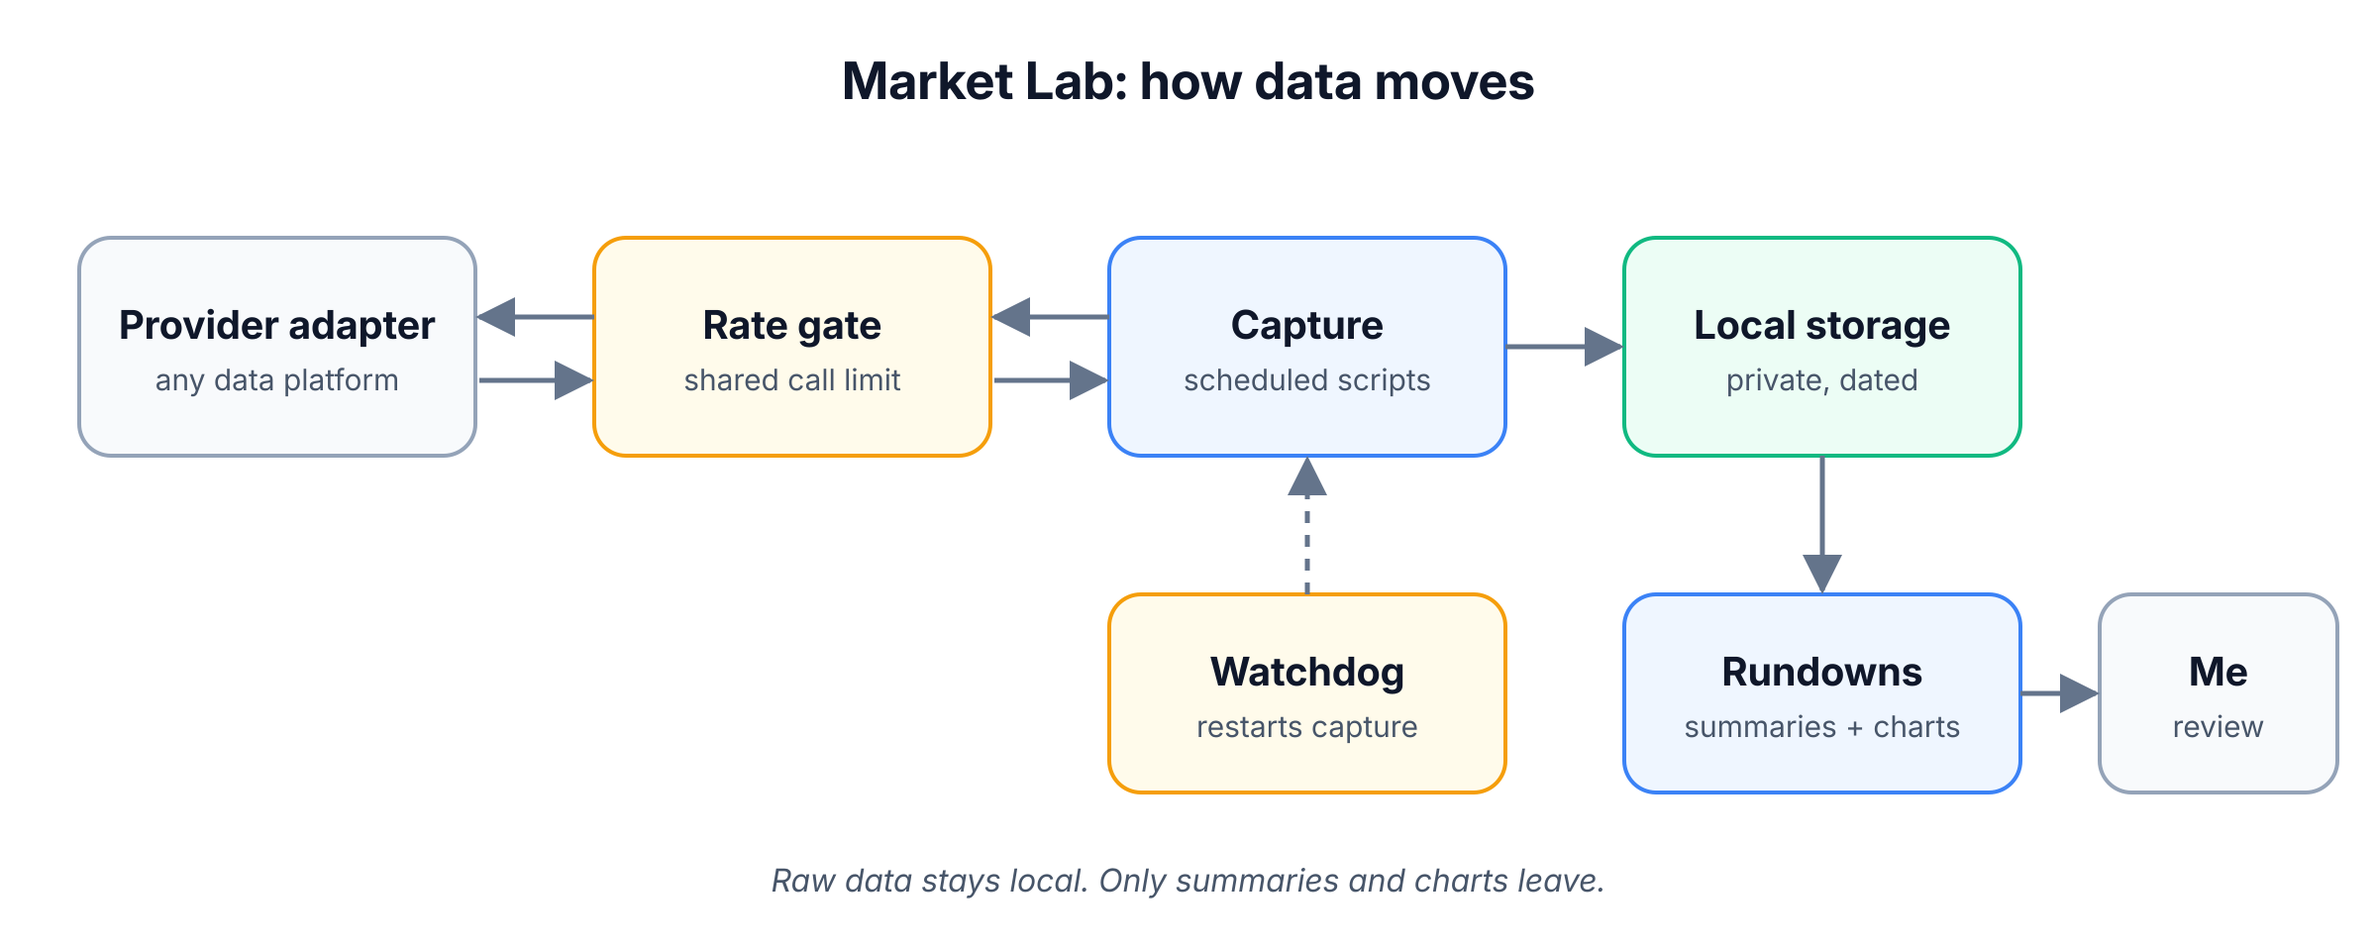
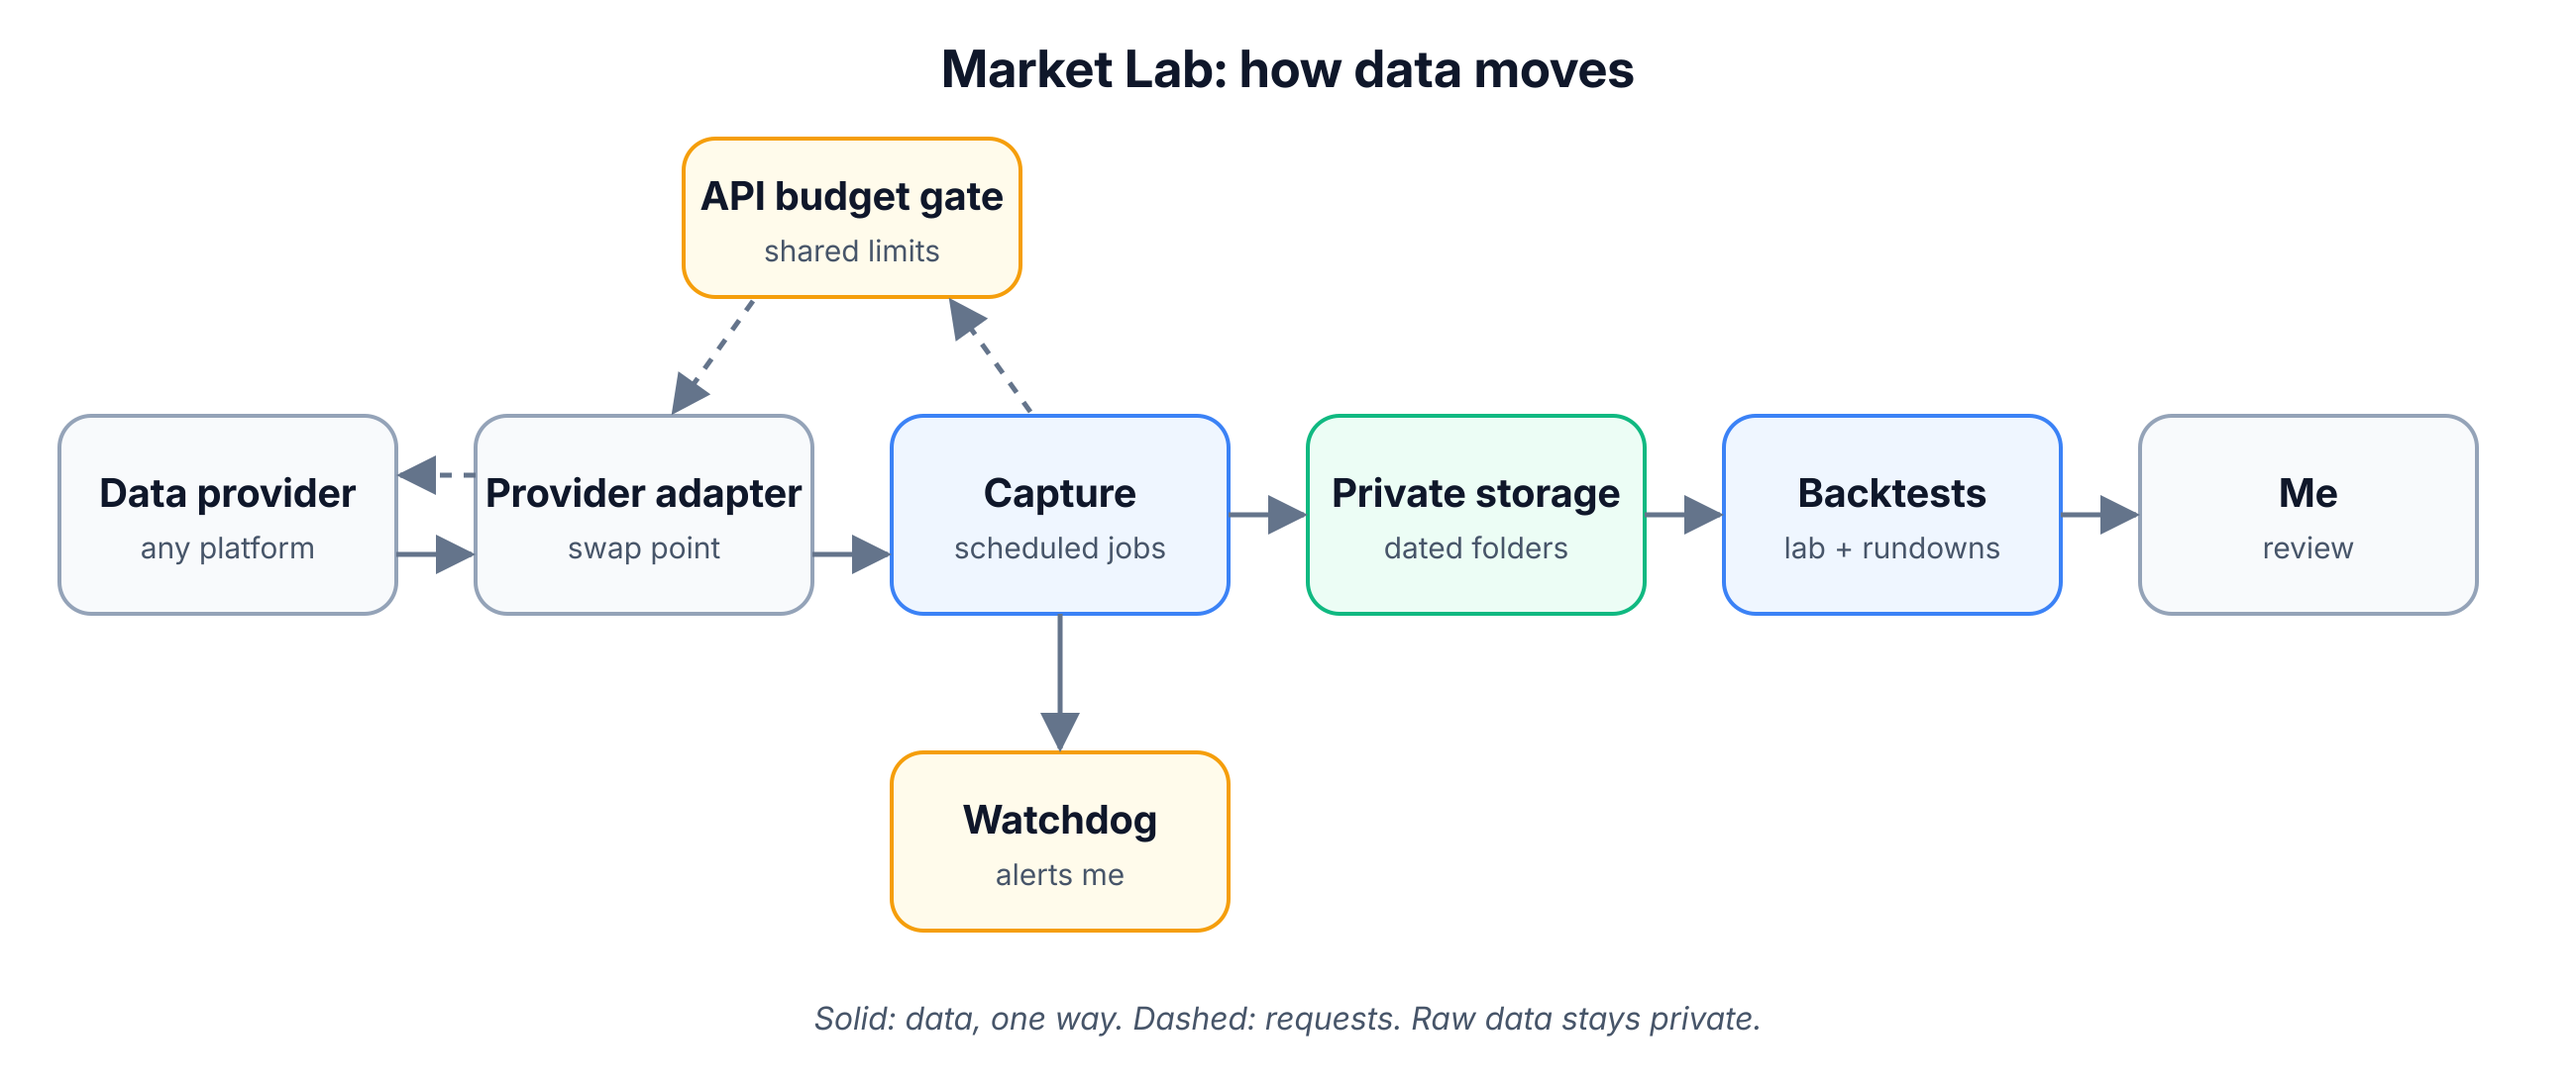
docs: reframe Market Lab around backtesting and apply review fixes

diff --git a/market-lab/assets/gen.py b/market-lab/assets/gen.py
@@ -26,9 +26,9 @@ def box(o, x, y, w, h, title, sub, fill, stroke, dash=False):
     text(o, x + w / 2, y + h / 2 + 22, sub, 15, SUB)
 
 
-def arrow(o, x1, y1, x2, y2, dash=False):
+def arrow(o, x1, y1, x2, y2, dash=False, color="#64748B"):
     d = ' stroke-dasharray="6 6"' if dash else ""
-    o.append(f'<line x1="{x1}" y1="{y1}" x2="{x2}" y2="{y2}" stroke="#64748B" stroke-width="2.5" marker-end="url(#a)"{d}/>')
+    o.append(f'<line x1="{x1}" y1="{y1}" x2="{x2}" y2="{y2}" stroke="{color}" stroke-width="2.5" marker-end="url(#a)"{d}/>')
 
 
 BLUE = ("#EFF6FF", "#3B82F6")
@@ -36,26 +36,30 @@ GREEN = ("#ECFDF5", "#10B981")
 AMBER = ("#FFFBEB", "#F59E0B")
 GRAY = ("#F8FAFC", "#94A3B8")
 
-# 1. Simple architecture: one capture session, left to right.
+# 1. Simple architecture: one capture session.
+# Solid arrows carry data one way, left to right. Dashed arrows are requests.
 o = []
-text(o, 600, 50, "Market Lab: how data moves", 26, bold=True)
-box(o, 40, 120, 200, 110, "Provider adapter", "any data platform", *GRAY)
-box(o, 300, 120, 200, 110, "Rate gate", "shared call limit", *AMBER)
-box(o, 560, 120, 200, 110, "Capture", "scheduled scripts", *BLUE)
-box(o, 820, 120, 200, 110, "Local storage", "private, dated", *GREEN)
-arrow(o, 560, 160, 502, 160)
-arrow(o, 300, 160, 242, 160)
-arrow(o, 242, 192, 298, 192)
-arrow(o, 502, 192, 558, 192)
-arrow(o, 760, 175, 818, 175)
-box(o, 560, 300, 200, 100, "Watchdog", "restarts capture", *AMBER)
-arrow(o, 660, 300, 660, 232, dash=True)
-box(o, 820, 300, 200, 100, "Rundowns", "summaries + charts", *BLUE)
-arrow(o, 920, 230, 920, 298)
-box(o, 1060, 300, 120, 100, "Me", "review", *GRAY)
-arrow(o, 1020, 350, 1058, 350)
-text(o, 600, 450, "Raw data stays local. Only summaries and charts leave.", 16, SUB, ital=True)
-svg("market-lab-architecture-simple.svg", 1200, 480, o)
+text(o, 650, 44, "Market Lab: how data moves", 26, bold=True)
+Y, H, BW = 210, 100, 170
+xs = [30, 240, 450, 660, 870, 1080]
+box(o, xs[0], Y, BW, H, "Data provider", "any platform", *GRAY)
+box(o, xs[1], Y, BW, H, "Provider adapter", "swap point", *GRAY)
+box(o, xs[2], Y, BW, H, "Capture", "scheduled jobs", *BLUE)
+box(o, xs[3], Y, BW, H, "Private storage", "dated folders", *GREEN)
+box(o, xs[4], Y, BW, H, "Backtests", "lab + rundowns", *BLUE)
+box(o, xs[5], Y, BW, H, "Me", "review", *GRAY)
+box(o, 345, 70, 170, 80, "API budget gate", "shared limits", *AMBER)
+arrow(o, 520, Y - 2, 480, 152, dash=True)
+arrow(o, 380, 152, 340, Y - 2, dash=True)
+arrow(o, xs[1], Y + 30, xs[0] + BW + 2, Y + 30, dash=True)
+arrow(o, xs[0] + BW, Y + 70, xs[1] - 2, Y + 70)
+arrow(o, xs[1] + BW, Y + 70, xs[2] - 2, Y + 70)
+for i in (2, 3, 4):
+    arrow(o, xs[i] + BW, Y + 50, xs[i + 1] - 2, Y + 50)
+box(o, 450, 380, 170, 90, "Watchdog", "alerts me", *AMBER)
+arrow(o, 535, Y + H, 535, 378)
+text(o, 650, 520, "Solid: data, one way. Dashed: requests. Raw data stays private.", 16, SUB, ital=True)
+svg("market-lab-architecture-simple.svg", 1300, 550, o)
 
 # 2. Current state vs future state.
 o = []
@@ -63,21 +67,15 @@ text(o, 600, 50, "Market Lab: current vs future state", 26, bold=True)
 text(o, 100, 130, "Today", 20, bold=True)
 text(o, 100, 156, "on hiatus", 15, SUB, ital=True)
 box(o, 180, 90, 240, 100, "Capture", "my computer, stopped", *GRAY)
-box(o, 480, 90, 240, 100, "Local storage", "dated folders", *GREEN)
-box(o, 780, 90, 240, 100, "Rundowns", "summaries + charts", *BLUE)
-arrow(o, 420, 140, 478, 140)
-arrow(o, 720, 140, 778, 140)
+box(o, 480, 90, 240, 100, "Private storage", "my computer", *GREEN)
+box(o, 780, 90, 240, 100, "Backtests", "lab + rundowns", *BLUE)
+arrow(o, 420, 140, 478, 140, color="#CBD5E1")
+arrow(o, 720, 140, 778, 140, color="#CBD5E1")
 text(o, 100, 300, "Planned", 20, bold=True)
 box(o, 180, 250, 240, 100, "Capture", "AWS virtual machine", *BLUE, dash=True)
-box(o, 480, 250, 240, 100, "Cloud storage", "private data lake", *GREEN, dash=True)
-box(o, 780, 250, 240, 100, "Rundowns", "unchanged", *BLUE)
+box(o, 480, 250, 240, 100, "Data lake", "Parquet, private", *GREEN, dash=True)
+box(o, 780, 250, 240, 100, "Backtests", "unchanged", *BLUE)
 arrow(o, 420, 300, 478, 300, dash=True)
 arrow(o, 720, 300, 778, 300, dash=True)
 text(o, 600, 400, "Capture and storage move to AWS. Review stays the same.", 16, SUB, ital=True)
 svg("market-lab-current-vs-future.svg", 1200, 430, o)
-
-# 3. Placeholder photo.
-o = ['<rect x="12" y="12" width="616" height="456" rx="20" fill="#F1F5F9" stroke="#94A3B8" stroke-width="3" stroke-dasharray="14 10"/>',
-     '<polyline points="120,330 220,260 300,290 400,190 520,230" fill="none" stroke="#3B82F6" stroke-width="8" stroke-linecap="round" stroke-linejoin="round"/>']
-text(o, 320, 400, "Placeholder image", 28, SUB, bold=True)
-svg("market-lab-placeholder.svg", 640, 480, o)

diff --git a/market-lab/README.md b/market-lab/README.md
@@ -1,77 +1,79 @@
-# Market Lab: a personal market-data pipeline
+# Market Lab: market data for backtesting
 
 [← Back to the AI Operating Model](../README.md)
 
-Market Lab is my personal market-data pipeline.
-It captures live market data on a schedule, stores it privately, and turns it into summaries and charts I can read.
+Market Lab captures live market data for backtesting.
+The plan is a private data lake that stores the data as Parquet files.
 It's analysis only. It never places anything in the market.
-It's modular. Any market-data platform can plug in behind one adapter.
+
+It's designed so a data platform can be swapped by writing a new adapter.
 The platform I use in development is one implementation, not the product.
+
 It's also where I practice running scheduled jobs, guardrails, and AI agents against real, messy data.
-
-<img src="assets/market-lab-placeholder.png" alt="Placeholder image for Market Lab" width="320">
-
-*Placeholder image. A real one comes later.*
 
 ## How it works
 
 For a step-by-step walkthrough, see [How Market Lab works](how-market-lab-works.md).
 
-![How Market Lab works: capture scripts pull from a licensed market feed through a shared rate gate, save to private local storage, and a watchdog restarts capture if it stops; summaries and charts go to me for review](assets/market-lab-architecture-simple.svg)
+![How Market Lab works: a data provider sends data one way through the provider adapter to capture, then to private storage and backtests that I review; capture requests pass an API budget gate, and a watchdog watches capture and alerts me](assets/market-lab-architecture-simple.svg)
 
-*One capture session, simplified. The provider adapter is the swap point.*
+*One capture session, simplified. Solid arrows carry data. Dashed arrows are requests.*
 
-1. **Scheduled start.** Capture jobs start before the market opens and wait for the session.
-2. **Provider adapter.** Capture talks to one adapter, not to a vendor. Swapping platforms means writing a new adapter.
-3. **Sign-in check.** When the data provider asks, I confirm sign-in on my phone.
-4. **Rate gate.** Every call goes through one shared limit, so jobs can't flood the feed.
-5. **Capture.** Scripts record market depth and quotes during set windows.
-6. **Private storage.** Raw data lands in dated local folders and is never committed or shared.
-7. **Rundowns.** After the close, an agent turns the data into summaries and charts.
-8. **Review.** I read the rundown. Summaries go to my notes through a pull request.
+1. **Jobs wake up.** Before the open, scheduled jobs start and wait for the session.
+2. **Requests go through the adapter.** Capture talks to one provider adapter, not to a platform directly.
+3. **Requests pass the API budget gates.** Every job shares the same limits. See [API budget gates](../docs/overview.md).
+4. **Capture runs.** Jobs record market data during set windows.
+5. **Data lands privately.** Raw data goes to private, dated folders. Today that's my computer. After the move, it's a private cloud data lake.
+6. **The watchdog keeps watch.** It watches capture and alerts me if it stops. Automatic restart is planned.
+7. **Sizes are logged.** After the close, a job records how much data and how many calls the session used.
+8. **Backtests and rundowns run.** The lab engine runs backtests on the stored data. An agent writes a summary with charts.
+9. **I review it.** Results come to me through a pull request.
 
 ## Current state vs future state
 
-![Market Lab current state vs future state: today capture, storage, and rundowns run on my computer; in the plan, only storage moves to the cloud](assets/market-lab-current-vs-future.svg)
+![Market Lab current state vs future state: today capture, storage, and backtests ran on my computer and are paused; in the plan, capture and storage move to AWS](assets/market-lab-current-vs-future.svg)
 
-*Capture and storage move to AWS. The review side stays the same.*
+*Capture and storage move to AWS. Backtests and review stay the same.*
 
-**Current state: on hiatus.** Capture ran on my own computer, with raw data in local, dated folders.
-I stopped local capture after October 21, 2026, on purpose.
-The scheduled capture jobs and the watchdog are paused until the move is done.
+**Current state: on hiatus.** Capture is paused on purpose while it moves to AWS.
+It stopped in late October 2026. Until then it ran on my own computer, with raw data in private, dated folders.
 
 **Future state: migration to AWS (planned).** The code moves to a virtual machine on AWS with more resources.
 The planned pieces are:
 
-- **A private data lake.** Raw files go to cloud storage with public access blocked and encryption on.
+- **A private data lake for backtesting.** Raw data is stored as Parquet, with public access blocked and encryption on.
 - **Infrastructure as code.** The cloud setup is defined in files and reviewed like any other change.
 - **Short-lived cloud credentials.** Pipelines sign in with temporary credentials instead of long-lived ones.
 - **A hosted store for cleaned data.** The choice between options is still open.
 
 **What it unlocks.** Capture no longer runs on my personal computer.
-The bigger machine leaves room for more capture and heavier analysis.
-And the provider adapter makes it simpler to add or swap a data platform later.
+The bigger machine leaves room for more capture and heavier backtests.
+The provider adapter also lets me add or swap a data platform later.
 
-## Guardrails, and where they act
+## Guardrails, as a threat model
 
-- **Around scope:** The project reads market data only. It has no way to act in the market.
-- **Around the feed:** One shared rate gate covers every script, with a limit set below the provider's ceiling.
-- **Around sign-in:** Credentials live in a secrets manager, not in the repo. The provider's sign-in check comes to my phone.
-- **Around the data:** Raw feed data is licensed for private use. It stays local and out of Git. Only summaries and charts leave.
-- **Around uptime:** A watchdog checks capture during the session and restarts it if it stops. It pings me only when it needs me or after a fix.
-- **Around honesty:** Every result is labeled with where its data came from, and known gaps are tracked in a register.
-- **Around changes:** Code changes go through pull requests with security scans, like every repo here.
+Before the hiatus, these controls ran on my computer. They carry over to AWS.
+Each line names a threat, the control, and whether it's enforced today or planned.
+
+- **The lab acts in the market.** *Planned:* read-only market-data credentials and no code path that can act in the market. Today the code is built for analysis only, by design.
+- **Jobs flood the provider.** *Enforced:* shared API budget gates cover every job, with limits set below the provider's ceiling.
+- **Credentials leak.** *Enforced:* credentials live in a secrets manager, never in the repo, and every pull request runs a secrets scan.
+- **Licensed data leaks.** *Enforced:* raw data is licensed for private use. It stays out of Git. Only summaries and charts leave.
+- **Capture fails silently.** *Enforced:* the watchdog watches capture and alerts me. *Planned:* automatic restart.
+- **Results overclaim.** *Enforced:* every result is labeled with where its data came from, and known gaps are tracked in a register.
+- **A bad change slips in.** *Enforced:* code changes go through pull requests with security scans, like every repo here.
+- **The cloud lake is exposed.** *Planned:* public access blocked, encryption on, and temporary credentials only.
 
 ## Experimenting with architecture
 
 Market Lab is a place to try ideas on a small, real system:
 
 - **Swappable providers.** Keeping the data platform behind one adapter, so it can change without touching capture or storage.
-- **Storage tiers.** Comparing local folders with a hosted lake and database before committing to one.
+- **Storage tiers.** Comparing local folders with a hosted lake and database before choosing one.
 - **Safe migration.** Planning the move to AWS so existing data keeps building with no reset.
-- **Pluggable analysis.** A lab engine where each piece of a test run can be swapped.
+- **Pluggable backtests.** A lab engine where each piece of a test run can be swapped.
 
-## Testing AI models
+## AI agents in the loop
 
 AI agents do much of the work around the data. They write the rundowns, draft the charts, and propose code changes.
 I review what they produce. Every change still comes to me through a pull request.

diff --git a/README.md b/README.md
@@ -9,7 +9,7 @@ A working pattern for running AI agents under enterprise security controls.
 - **Governance for multiple agents.** How agents claim work, stay in their own lanes, and log their own rule breaks in an incident ledger.
 - **Approval gates and enforced controls.** What runs on its own, what waits for a human, and which controls a machine actually enforces.
 - **Jarvis.** A personal AI on Rokid Glasses that I use as a real-world lab for guardrails and model testing.
-- **Market Lab.** A personal market-data pipeline for scheduled capture, private storage, and agent-written summaries.
+- **Market Lab.** Market data captured for backtesting, headed for a private data lake (planned).
 
 ![Control plane: AI agents run inside an agent sandbox (OpenShell) that confines files, processes, and system calls, with an API rate limit in the sandbox. Every network call leaves through the OpenShell supervisor, which checks policy and swaps in the real credential from the OpenShell provider store, fed at runtime by the secrets manager. Tool calls go to the MCP gateway, which checks tools, arguments, and caller, logs each call, and fronts one MCP servers group (for example GitHub, AI Operating Model, knowledge base). Model calls go to model providers (OpenRouter, Ollama). The Internet edge enforces limits outside the sandbox. The GitHub gate is the human gate: the owner approves PRs and merges. Opik traces model calls](diagrams/01-control-plane.png)
 
@@ -35,9 +35,7 @@ Jarvis is my personal AI assistant, built around Rokid Glasses. I also use it to
 
 ## Featured: Market Lab
 
-<a href="market-lab/README.md"><img src="market-lab/assets/market-lab-placeholder.png" alt="Placeholder image for Market Lab" width="160" align="right"></a>
-
-Market Lab is my personal market-data pipeline. It captures live market data on a schedule, keeps it private, and turns it into summaries and charts I review. It's modular, so any market-data platform can plug in, and it's on hiatus while it moves to AWS.
+Market Lab captures live market data for backtesting. A private data lake, stored as Parquet, is planned. It's designed so a data platform can be swapped by writing a new adapter, and it's paused while it moves to AWS.
 
 **[Explore Market Lab →](market-lab/README.md)**
 
@@ -89,7 +87,7 @@ This repository uses the gate it describes. GitHub Actions runs the Definition o
 | `docs/how-a-change-reaches-main.md` | Step-by-step walkthrough of the change gate |
 | `docs/ruleset.json` | Main branch ruleset applied to this repository |
 | `jarvis/` | Jarvis, my personal AI on Rokid Glasses ([rundown](jarvis/README.md), [how it works, step by step](jarvis/how-jarvis-works.md), [image credits](jarvis/assets/CREDITS.md)) |
-| `market-lab/` | Market Lab, my personal market-data pipeline ([rundown](market-lab/README.md), [how it works, step by step](market-lab/how-market-lab-works.md)) |
+| `market-lab/` | Market Lab, market data for backtesting ([rundown](market-lab/README.md), [how it works, step by step](market-lab/how-market-lab-works.md)) |
 | `diagrams/` | Diagram sources (SVG) and PNG exports |
 | `.github/` | Pull request template and CI workflows |
 

diff --git a/market-lab/how-market-lab-works.md b/market-lab/how-market-lab-works.md
@@ -3,24 +3,24 @@
 [← Back to Market Lab](README.md)
 
 This walks through one capture session, start to finish.
-Capture is on hiatus while it moves to AWS. The steps stay the same after the move.
+Capture is paused on purpose while it moves to AWS. The steps stay the same after the move.
 
 ## The steps
 
 1. **Jobs wake up.** Before the open, scheduled jobs start and wait for the session.
-2. **I confirm sign-in.** If the data provider asks, the check comes to my phone and I approve it.
-3. **Calls go through the adapter.** Capture talks to one provider adapter, so any data platform can sit behind it.
-4. **Calls pass the rate gate.** Every script shares one call limit, so no job can flood the feed.
-5. **Capture runs.** Scripts record market depth and quotes during set windows.
-6. **Data lands locally.** Each run writes to a dated folder. Raw data never goes to Git.
-7. **The watchdog keeps watch.** If capture stops, it restarts it and tells me what it did.
+2. **Requests go through the adapter.** Capture talks to one provider adapter, not to a platform directly.
+3. **Requests pass the API budget gates.** Every job shares the same limits, so no job can flood the provider.
+4. **Capture runs.** Jobs record market data during set windows.
+5. **Data lands privately.** Each run writes to a private, dated folder. Raw data never goes to Git.
+6. **After the move,** raw data lands in a private cloud data lake instead of local folders.
+7. **The watchdog keeps watch.** It watches capture and alerts me if it stops. Automatic restart is planned.
 8. **Sizes are logged.** After the close, a job records how much data and how many calls the session used.
-9. **A rundown is written.** An agent turns the session into a summary and charts.
-10. **I review it.** The rundown goes to my notes through a pull request.
+9. **Backtests and rundowns run.** The lab engine runs backtests on the stored data. An agent writes a summary with charts.
+10. **I review it.** Results come to me through a pull request.
 
 ## Around every turn
 
-- **Read only.** Nothing in the project can act in the market.
-- **Private data.** Raw feed data stays on my computer. Only summaries and charts leave.
+- **Analysis only.** The lab is built to read market data, never to act in the market.
+- **Private data.** Raw data stays private. Only summaries and charts leave.
 - **Labeled results.** Each result says where its data came from, and gaps are tracked.
 - **Reviewed changes.** Code and notes change only through pull requests.
